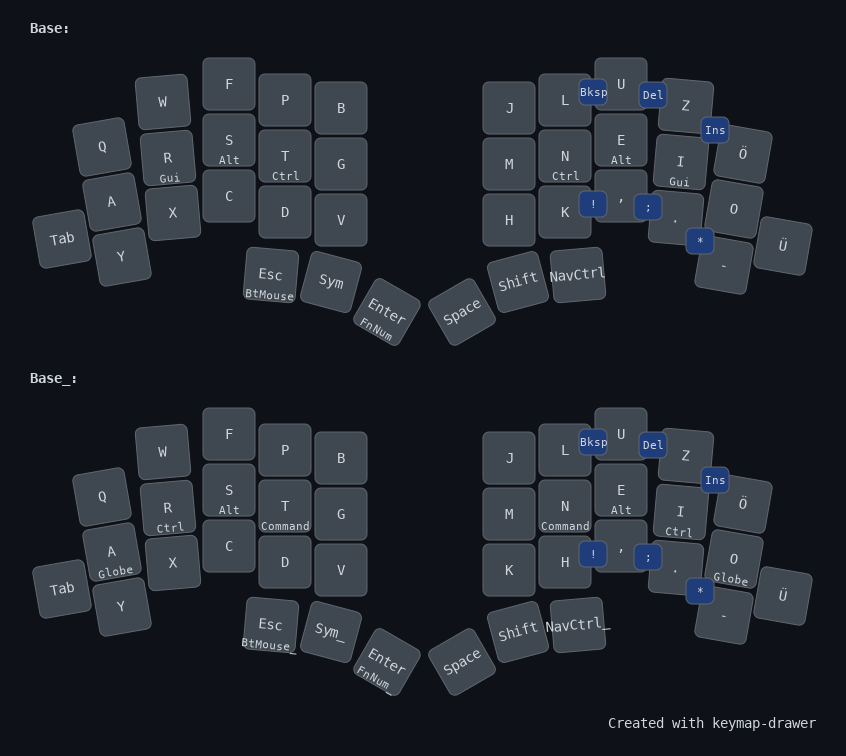
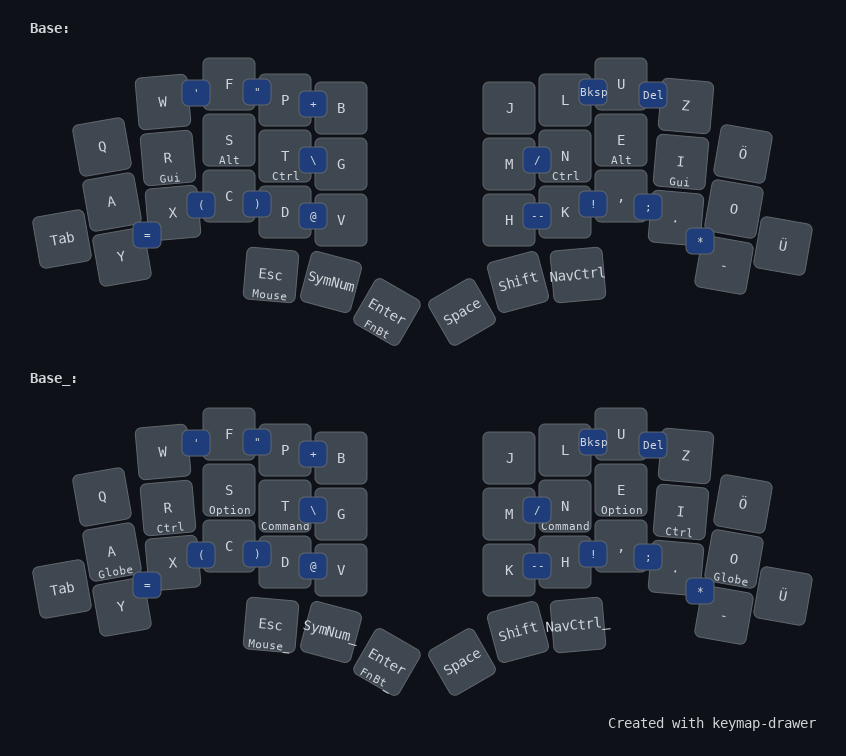
Added combos and moved num to L1

diff --git a/readme.md b/readme.md
@@ -38,22 +38,28 @@ The base layer is Colemak-DH with a few changes / additions:
 - Ö, Ü and Tab added
 - Homerow mods, without Shift
 - Shift on right thumb, with tap-dance: double tap is CapsWord, triple tap is CapsLock
-- Esc and Space are Tap-hold layer keys
-- Sym and NavCtrl layers do not have tap-hold
-- Combos for BKSP, DEL and INS
-- Combos for "!", ";" and "*"
+- Esc and Enter are Tap-hold layer keys
+- SymNum and NavCtrl layers do not have tap-hold
+- Combos for most commonly used symbols:
+  - Left upper row: ', " and +
+  - Left lower row: =, (, ), @
+  - Right upper row: Backspace and Delete
+  - Right lower row: Em-dash, !, ; and *
+  - Middle row: \ and /
 
-### Sym Layer
+### Symbols-Numbers Layer
 
-![sym](/docs/images/sym.png)
+![symnum](/docs/images/symnum.png)
 
-This layer is for accents and symbols
+This layer is for accents, numbers and symbols not on the base layer
 
+- Acutes and double acutes under their non-acute counterparts
 - All symbols except the ones on base layer
+- Numbers on left side for one-handed typing
 - Homerow mods are duplicated here
 - Sticky AltGr on right outer thumb
 
-### NavCtrl Layer
+### Navigation-Controls Layer
 
 ![navctrl](/docs/images/navctrl.png)
 
@@ -67,32 +73,34 @@ This layer is for navigation and controls.
 - Cut, Copy and Paste for convenience when layer is locked
 - Combos for jumping one word forward and backward
 
-### FnNum Layer
+### Function-Bluetooth Layer
 
-![fnnum](/docs/images/fnnum.png)
+![fnbt](/docs/images/fnbt.png)
 
 This layer is for numbers and F-keys.
 
-- Numbers on left side for one-handed typing.
-- Math symbols on top row for easy access.
-- F-keys on right side.
-- Sticky AltGr on right outer thumb.
+- Mods on the left side
+- F-keys on right side
+- Sticky AltGr on right outer thumb
+- Bluetooth functions on the left side
 
-### BtMouse Layer 
+### Mouse Layer 
 
-![btmouse](/docs/images/btmouse.png)
+![mouse](/docs/images/mouse.png)
 
-This layer is for mouse emulation and Bluetooth functions.
+This layer is for mouse emulation and macros.
 
 - Can be locked or unlocked by opposite outer thumb key
 - Mouse pointer and scroll control
 - Left and Right Click on thumb keys
 - Mods (including Shift) on the right side bottom row
-- Macros on the right top row (Teams commands)
+- Macros on the right bottom row
 
 ## Ipad compatiblity
 
 Ipad_ activates or deactivates Base_ layer. Every layer has a corresponding Ipad layer (followed by a _) that works in Ipad Mode.
+
+Some Bluetooth profiles are also configured to switch to Ipad mode (or back to Base mode). Currently, BT0 and BT2 are configured as Ipad mode profiles, and the rest as normal profiles.
 
 ### Differences
 
